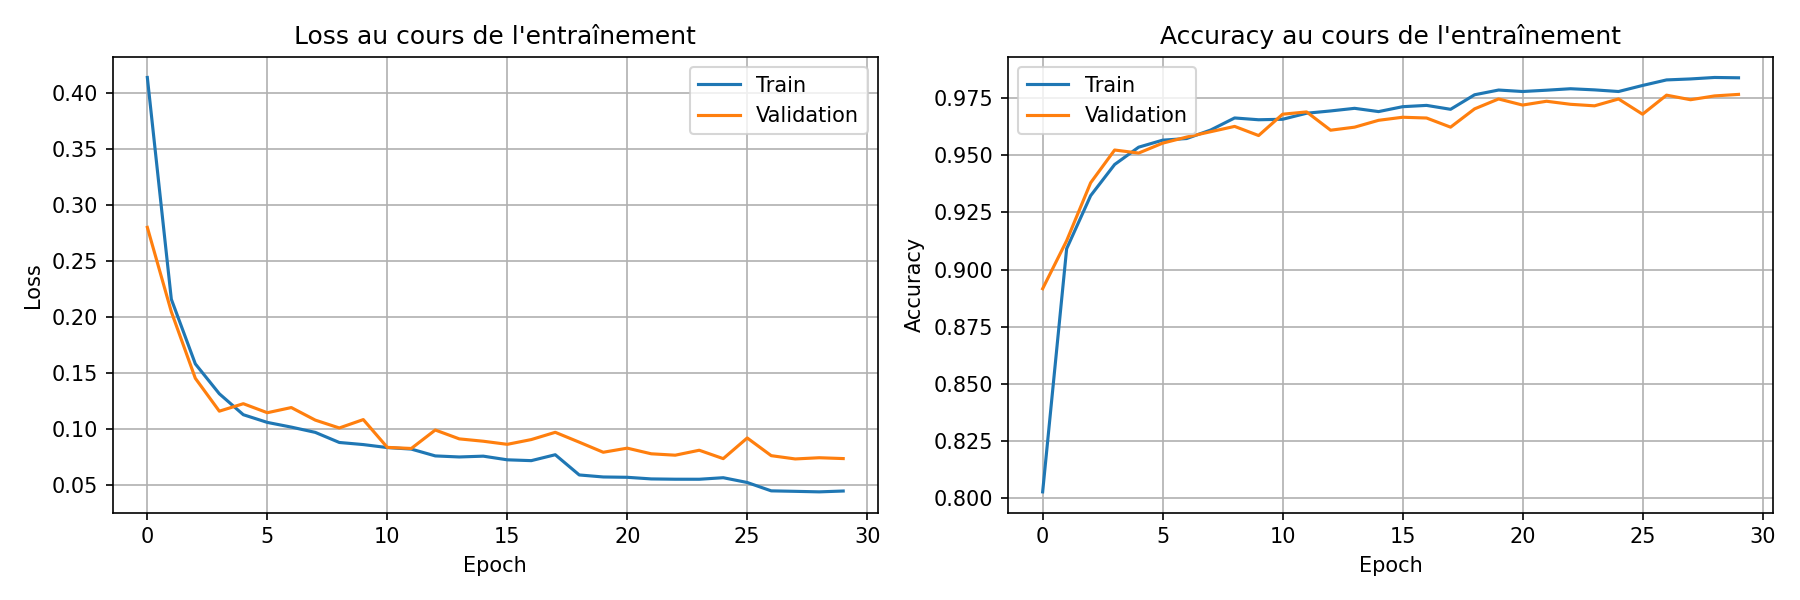
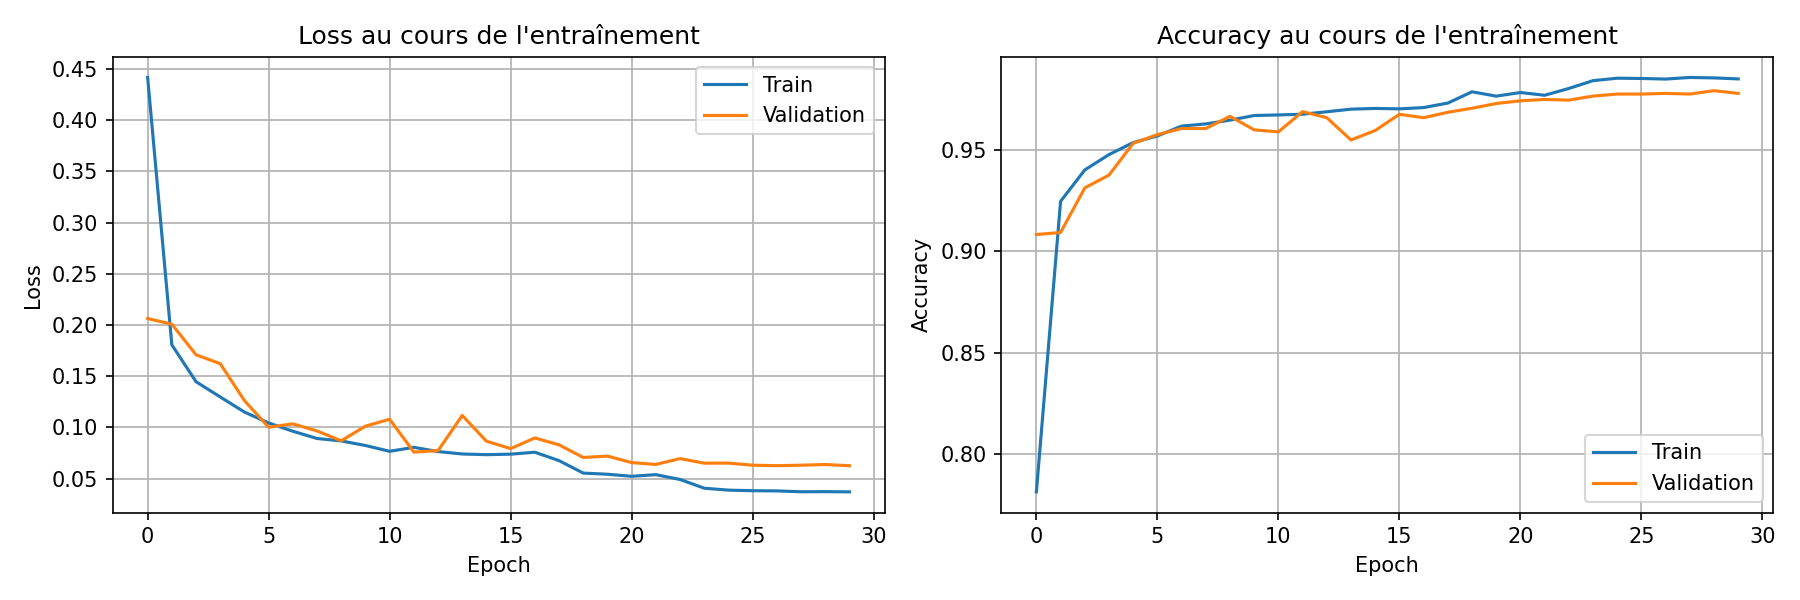
la bête :sunglasses:

diff --git a/cours/TP/tp2/TP3.md b/cours/TP/tp2/TP3.md
@@ -1,8 +1,7 @@
-# Compte-rendu TP3 : Optimisation de l'Oracle du Donjon
-
-## 1. Choix du Modèle (Linear -> RNN -> LSTM)
-Au début, on a testé un modèle **linéaire**, mais c'était pas terrible (environ 56% d'accuracy) parce qu'il ne prend pas en compte l'ordre des événements. En passant au **RNN**, ça allait un peu mieux mais c'était instable sur les longues séquences. 
-Finalement, le **LSTM** est clairement le meilleur : il arrive à "retenir" des infos importantes du début du donjon (comme l'amulette) jusqu'à la fin. On est monté rapidement au-dessus de 80%.
+## 1. Choix du Modèle (Linear -> RNN -> LSTM -> GRU)
+Au début, on a testé un modèle **linéaire**, mais c'était pas terrible (environ 56% d'accuracy). En passant au **RNN**, ça allait un peu mieux mais c'était instable. 
+Le **LSTM** était bien plus performant, mais on n'arrivait pas à descendre sous la barre des 4000 paramètres tout en gardant une bonne précision.
+Finalement, on a opté pour le **GRU** : c'est un excellent compromis. Il est plus léger que le LSTM mais bien plus "intelligent" qu'un RNN classique. Ça nous a permis de casser les records de compacité.
 
 ## 2. Mode Bidirectionnel
 L'activation du mode **bidirectionnel** a été le plus gros boost. Le modèle lit la séquence dans les deux sens, ce qui lui permet de mieux comprendre le contexte global (savoir qu'un dragon arrive à la fin aide à comprendre l'utilité d'une potion au début). On a gagné quasiment 10% d'accuracy direct.
@@ -20,8 +19,8 @@ On a mis en place un **switch d'optimiseur** à l'époque 10.
 *   On finit avec **SGD** (plus lent) pour "peaufiner" et stabiliser le modèle au fond du minimum. 
 Ça permet d'avoir un modèle très précis sans les oscillations d'Adam à la fin.
 
-**Commande finale utilisée :**
+**Commande finale utilisée (GRU) :**
 ```bash
-uv run python3 ./train_dungeon_logs.py --embed_dim 4 --hidden_dim 8 --num_layers 3 --dropout 0.3 --mode lstm --epoch 20 --bidirectional --early_stopping --optimizer adam --learning_rate 0.01 --use_scheduler --switch_epoch 10
+uv run python3 ./train_dungeon_logs.py --embed_dim 4 --hidden_dim 8 --num_layers 1 --mode gru --epoch 30 --bidirectional --early_stopping --optimizer adam --learning_rate 0.01 --use_scheduler --switch_epoch 23
 ```
-Résultat : On atteint plus de 95% d'accuracy sur quasiment toutes les catégories de donjons. avec 1000 paramètres
+Résultat : On atteint un record de **97.67% d'accuracy** avec seulement **800 paramètres**, là où on galérait à descendre sous les 4000 avec un LSTM.
